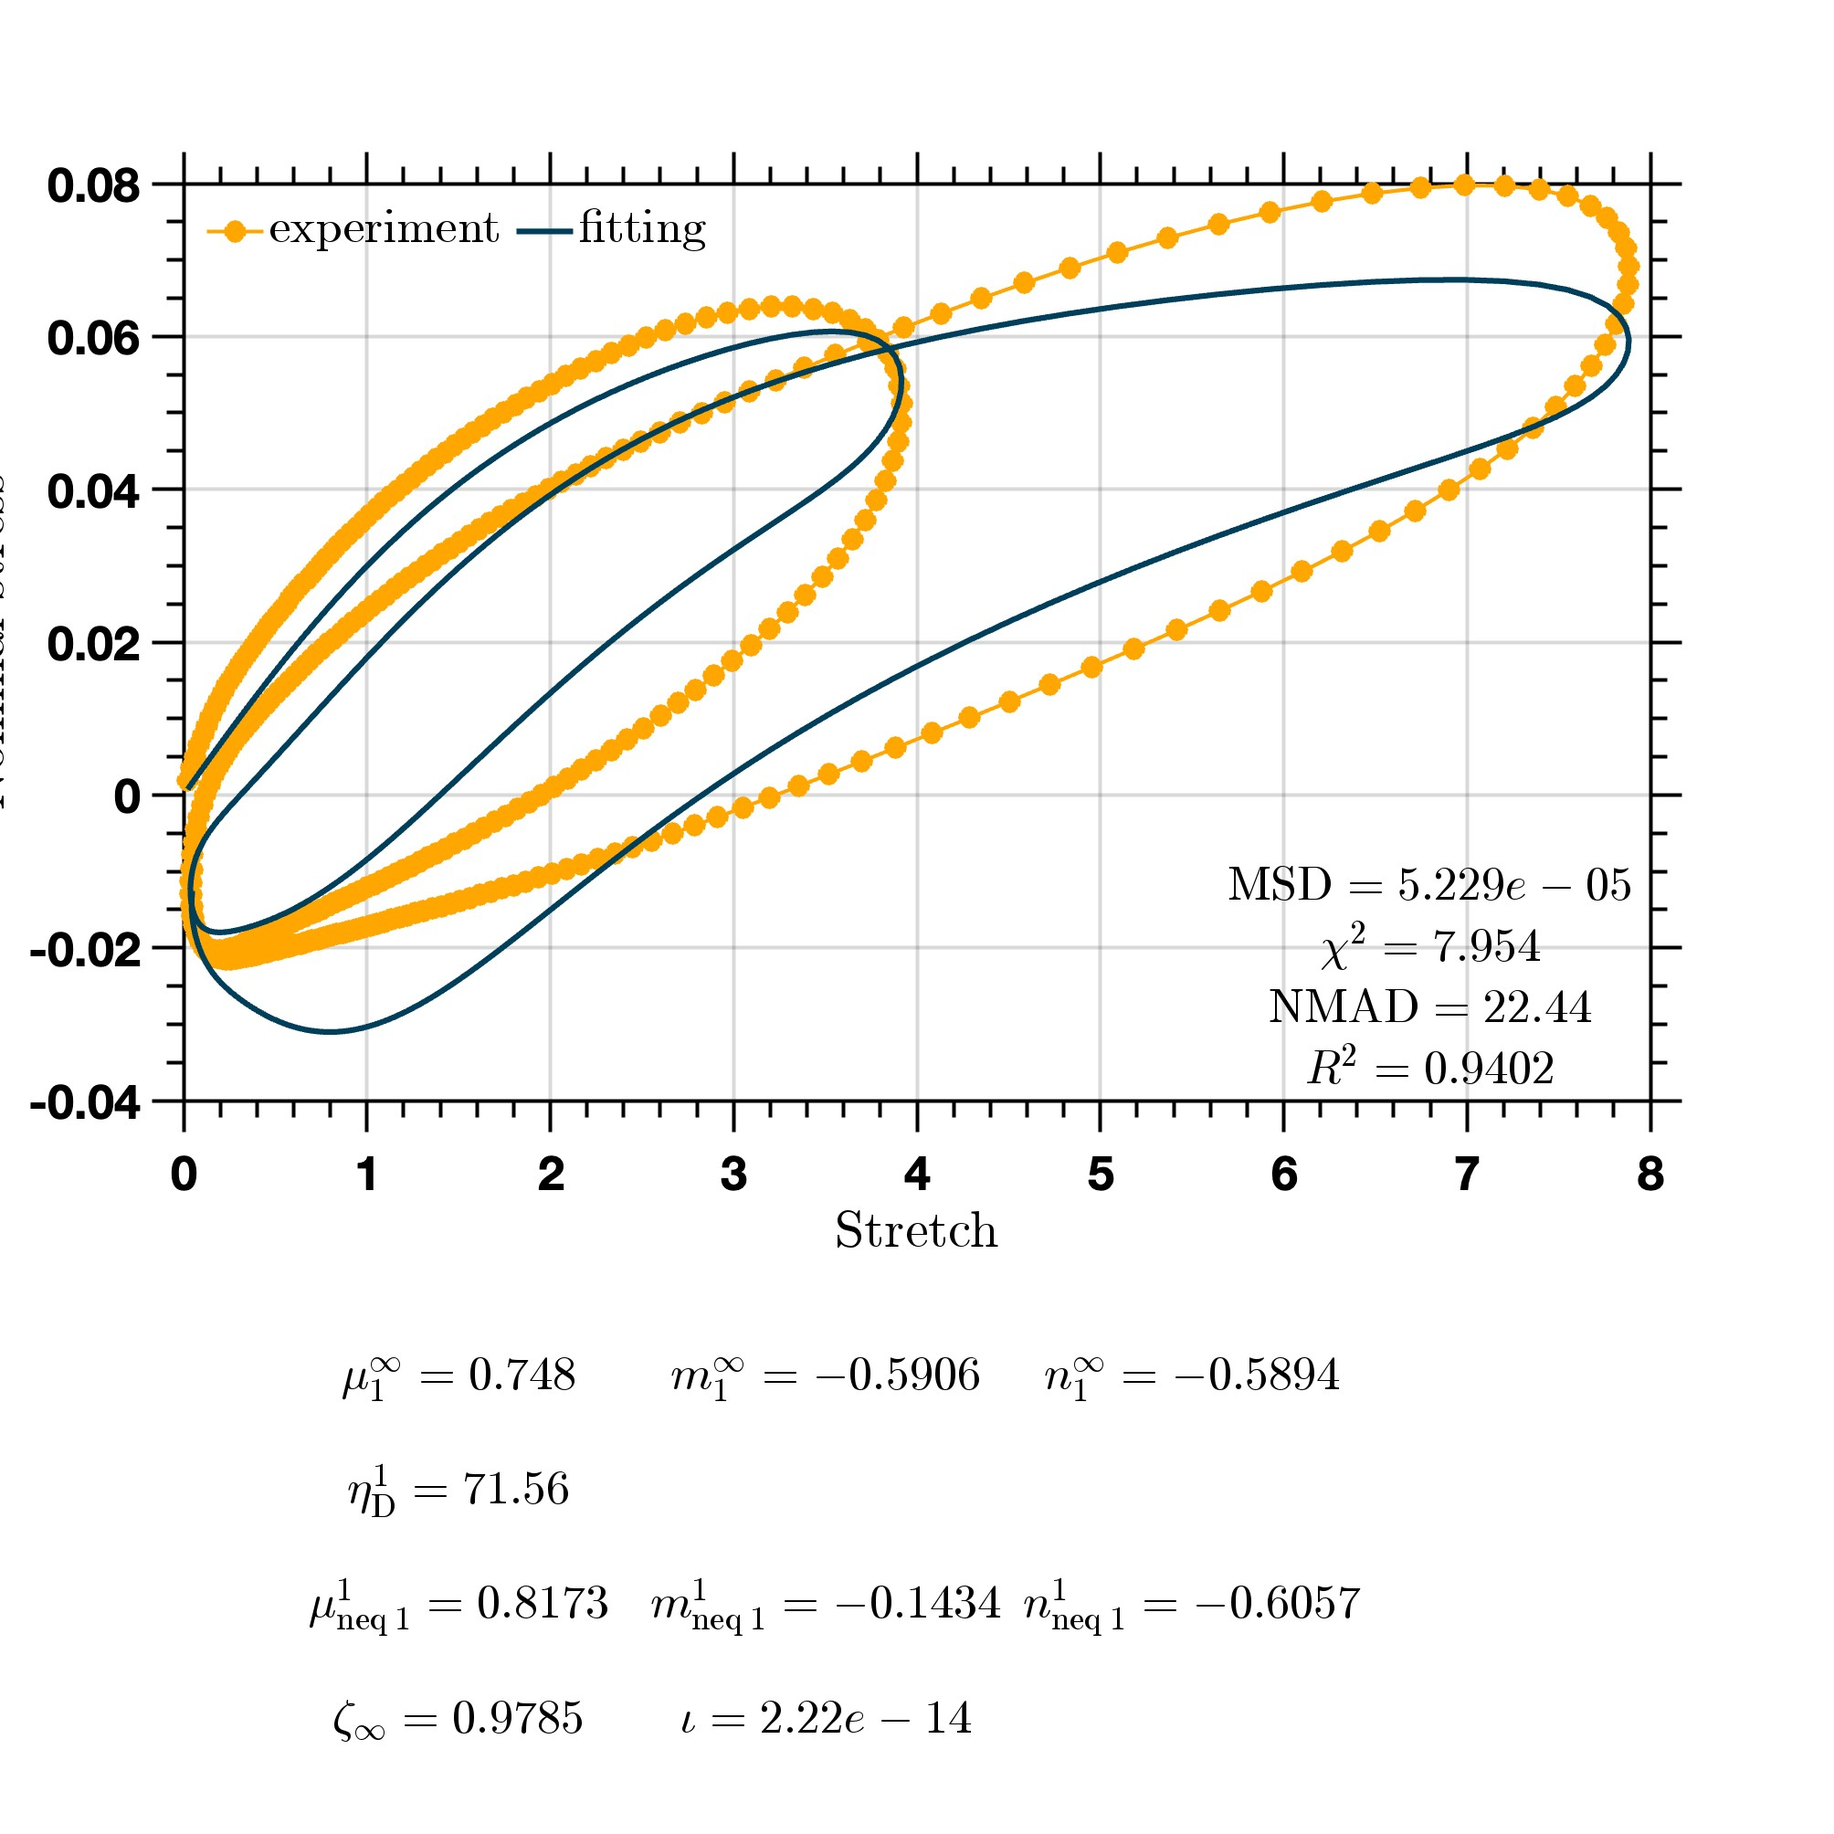
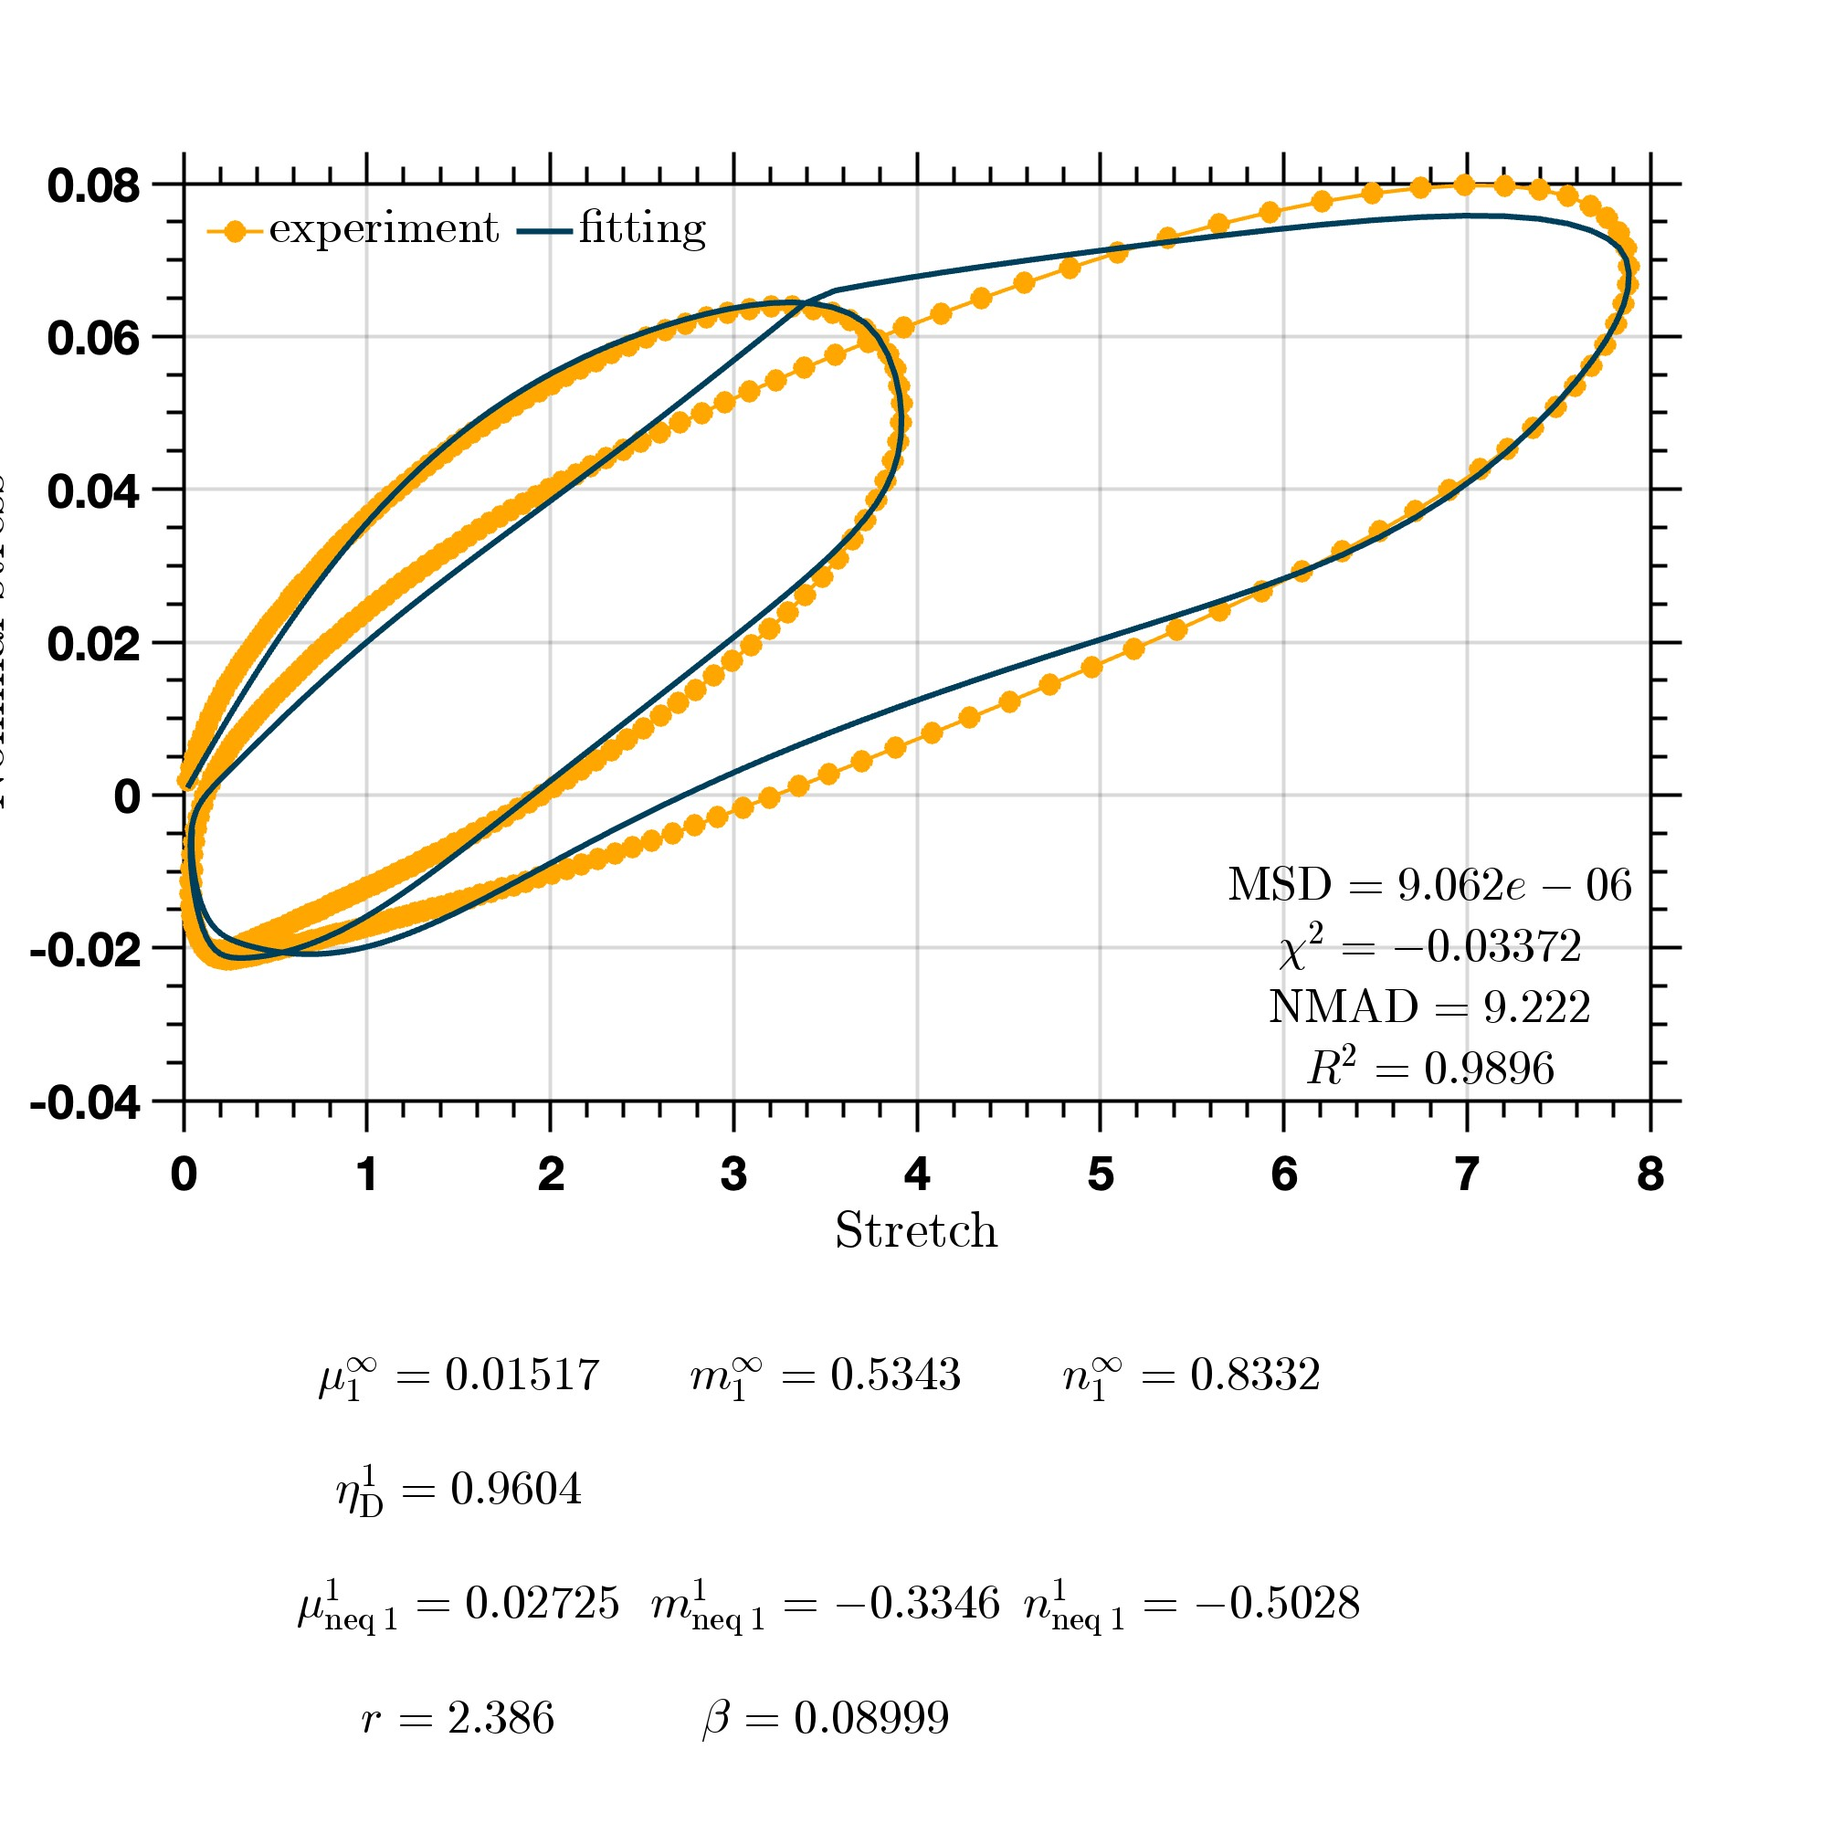
update

diff --git a/additive_CR_mullins_cyclic_shear/src/plot_result.m b/additive_CR_mullins_cyclic_shear/src/plot_result.m
@@ -1,10 +1,11 @@
-function plot_result(paras, num_eq, num_neq, Ft, time, P_exp)
+function plot_result(paras, num_eq, num_neq, Ft, time, P_exp, mode)
 close all;
-clf;
 gamma = zeros(length(time), 1);
 gamma(:) = Ft(1,2,:);
-[mu_eq, m_eq, n_eq, mu_neq, m_neq, n_neq, eta_d, zeta_infty, iota] = paras_to_array(paras, num_eq, num_neq, Ft, P_exp, time);
-P_pre = get_P_ij_list(1, 2, mu_eq, m_eq, n_eq, mu_neq, m_neq, n_neq, eta_d, zeta_infty, iota, Ft, time);
+% [mu_eq, m_eq, n_eq, mu_neq, m_neq, n_neq, eta_d, zeta_infty, iota] = paras_to_array(paras, num_eq, num_neq, Ft, P_exp, time);
+[mu_eq, m_eq, n_eq, mu_neq, m_neq, n_neq, eta_d, r, beta] = paras_to_array(paras, num_eq, num_neq);
+
+P_pre = get_P_ij_list(1, 2, mu_eq, m_eq, n_eq, mu_neq, m_neq, n_neq, eta_d, r, beta, Ft, time);
 figure;
 ax = axes('Position', [0.1 0.4 0.8 0.5], 'Box', 'on');
 plot(ax, gamma, P_exp, 'Color', '#ffa600', 'Marker', 'o', 'MarkerFaceColor', '#ffa600', 'MarkerSize', 10, 'LineStyle', '-', LineWidth=2.0);
@@ -118,12 +119,12 @@ switch mode
         text_mu_neq = cell(length(mu_neq), length(eta_d));
         text_m_neq = cell(length(m_neq), length(eta_d));
         text_n_neq = cell(length(n_neq), length(eta_d));
-        text_eta = cell(length(eta_d), 1);
+        text_eta_d = cell(length(eta_d), 1);
         x_location = 0.5;
         y_location = y_location + delta_y;
         for ii = 1:length(eta_d)
-            text_eta{ii} = sprintf('$\\eta_{\\mathrm{D}}^%d = %.4g$', ii, eta_d(ii));
-            text(x_location, y_location, text_eta(ii), ...
+            text_eta_d{ii} = sprintf('$\\eta_{\\mathrm{D}}^%d = %.4g$', ii, eta_d(ii));
+            text(x_location, y_location, text_eta_d(ii), ...
                 'HorizontalAlignment', 'center', ...
                 'VerticalAlignment', 'bottom', ...
                 'Interpreter', 'latex', ...
@@ -158,15 +159,15 @@ switch mode
         end
         x_location = 0.5;
         y_location = y_location + delta_y;
-        text_zeta_infty = sprintf('$\\zeta_{\\infty} = %.4g$', zeta_infty);
-        text(x_location, y_location, text_zeta_infty, ...
+        text_r = sprintf('$r = %.4g$', r);
+        text(x_location, y_location, text_r, ...
             'HorizontalAlignment', 'center', ...
             'VerticalAlignment', 'bottom', ...
             'Interpreter', 'latex', ...
             'FontSize', 25, 'FontWeight', 'bold', 'Color', 'k', 'FontName', 'Helvetica');
         x_location = x_location + delta_x;
-        text_lota = sprintf('$\\iota = %.4g$', iota);
-        text(x_location, y_location, text_lota, ...
+        text_beta = sprintf('$\\beta = %.4g$', beta);
+        text(x_location, y_location, text_beta, ...
             'HorizontalAlignment', 'center', ...
             'VerticalAlignment', 'bottom', ...
             'Interpreter', 'latex', ...
@@ -251,12 +252,12 @@ switch mode
         text_mu_neq = cell(length(mu_neq), length(eta_d));
         text_m_neq = cell(length(m_neq), length(eta_d));
         text_n_neq = cell(length(n_neq), length(eta_d));
-        text_eta = cell(length(eta_d), 1);
+        text_eta_d = cell(length(eta_d), 1);
         x_location = 1.5;
         y_location = y_location + delta_y;
         for ii = 1:length(eta_d)
-            text_eta{ii} = sprintf('$\\eta_{\\mathrm{D}}^%d = %.4g$', ii, eta_d(ii));
-            text(x_location, y_location, text_eta(ii), ...
+            text_eta_d{ii} = sprintf('$\\eta_{\\mathrm{D}}^%d = %.4g$', ii, eta_d(ii));
+            text(x_location, y_location, text_eta_d(ii), ...
                 'HorizontalAlignment', 'center', ...
                 'VerticalAlignment', 'bottom', ...
                 'Interpreter', 'latex', ...
@@ -291,15 +292,15 @@ switch mode
         end
         x_location = 1.5;
         y_location = y_location + delta_y;
-        text_zeta_infty = sprintf('$\\zeta_{\\infty} = %.4g$', zeta_infty);
-        text(x_location, y_location, text_zeta_infty, ...
+        text_r = sprintf('$r = %.4g$', r);
+        text(x_location, y_location, text_r, ...
             'HorizontalAlignment', 'center', ...
             'VerticalAlignment', 'bottom', ...
             'Interpreter', 'latex', ...
             'FontSize', 25, 'FontWeight', 'bold', 'Color', 'k', 'FontName', 'Helvetica');
         x_location = x_location + delta_x;
-        text_lota = sprintf('$\\iota = %.4g$', iota);
-        text(x_location, y_location, text_lota, ...
+        text_beta = sprintf('$\\beta = %.4g$', beta);
+        text(x_location, y_location, text_beta, ...
             'HorizontalAlignment', 'center', ...
             'VerticalAlignment', 'bottom', ...
             'Interpreter', 'latex', ...
@@ -384,12 +385,12 @@ switch mode
         text_mu_neq = cell(length(mu_neq), length(eta_d));
         text_m_neq = cell(length(m_neq), length(eta_d));
         text_n_neq = cell(length(n_neq), length(eta_d));
-        text_eta = cell(length(eta_d), 1);
+        text_eta_d = cell(length(eta_d), 1);
         x_location = 2.5;
         y_location = y_location + delta_y;
         for ii = 1:length(eta_d)
-            text_eta{ii} = sprintf('$\\eta_{\\mathrm{D}}^%d = %.4g$', ii, eta_d(ii));
-            text(x_location, y_location, text_eta(ii), ...
+            text_eta_d{ii} = sprintf('$\\eta_{\\mathrm{D}}^%d = %.4g$', ii, eta_d(ii));
+            text(x_location, y_location, text_eta_d(ii), ...
                 'HorizontalAlignment', 'center', ...
                 'VerticalAlignment', 'bottom', ...
                 'Interpreter', 'latex', ...
@@ -424,15 +425,15 @@ switch mode
         end
         x_location = 2.5;
         y_location = y_location + delta_y;
-        text_zeta_infty = sprintf('$\\zeta_{\\infty} = %.4g$', zeta_infty);
-        text(x_location, y_location, text_zeta_infty, ...
+        text_r = sprintf('$r = %.4g$', r);
+        text(x_location, y_location, text_r, ...
             'HorizontalAlignment', 'center', ...
             'VerticalAlignment', 'bottom', ...
             'Interpreter', 'latex', ...
             'FontSize', 25, 'FontWeight', 'bold', 'Color', 'k', 'FontName', 'Helvetica');
         x_location = x_location + delta_x;
-        text_lota = sprintf('$\\iota = %.4g$', iota);
-        text(x_location, y_location, text_lota, ...
+        text_beta = sprintf('$\\beta = %.4g$', beta);
+        text(x_location, y_location, text_beta, ...
             'HorizontalAlignment', 'center', ...
             'VerticalAlignment', 'bottom', ...
             'Interpreter', 'latex', ...

diff --git a/additive_CR_mullins_cyclic_shear/test.m b/additive_CR_mullins_cyclic_shear/test.m
@@ -1,9 +1,9 @@
 clc; clear; close all
 
 addpath("src");
-data = readmatrix('../smoothed_cyclic_shear_2.xlsx');
+data = readmatrix('../smoothed_cyclic_shear_3.xlsx');
 time = data(:,1);
-P_exp = 1000.0 .* data(:,3);
+P_exp = data(:,3);
 gamma = data(:,4);
 
 % Uniaxial tension experimental case
@@ -23,15 +23,16 @@ m_neq = [1.0];
 n_neq = [1.0];
 eta_d = [100.0];
 
-zeta_infty = [0.01];
-iota = [1.0];
-[paras0, num_eq, num_neq, lb, ub] = array_to_paras(mu_eq, m_eq, n_eq, mu_neq, m_neq, n_neq, eta_d, zeta_infty, iota);
+r = [2.0];
+beta = [20.0];
+[paras0, num_eq, num_neq, lb, ub] = array_to_paras(mu_eq, m_eq, n_eq, mu_neq, m_neq, n_neq, eta_d, r, beta);
 
 objectiveFunction = @(paras) objective(paras, Ft, P_exp, time, num_eq, num_neq);
 options = optimoptions('lsqnonlin', ...
-    'Algorithm', 'interior-point', ...
+    'Algorithm', 'trust-region-reflective', ...
     'MaxIterations', 100, ...
-    'Display', 'iter-detailed');
+    'Display', 'iter-detailed', ...
+    'PlotFcn', 'optimplotfval');
 [paras, resnorm] = lsqnonlin( objectiveFunction, paras0, lb, ub, options);
-plot_result(paras, num_eq, num_neq, Ft, time, P_exp, 2);
-print(gcf, '-djpeg', 'fig_cyclic_shear_2.jpg');
+plot_result(paras, num_eq, num_neq, Ft, time, P_exp, 3);
+print(gcf, '-djpeg', 'fig_cyclic_shear_3.jpg');

diff --git a/additive_CR_mullins_cyclic_shear/src/get_P_ij_list.m b/additive_CR_mullins_cyclic_shear/src/get_P_ij_list.m
@@ -1,9 +1,8 @@
-function out = get_P_ij_list(ii, jj, mu_eq, m_eq, n_eq, mu_neq, m_neq, n_neq, eta_d, zeta_infty, iota, Ft, time)
+function out = get_P_ij_list(ii, jj, mu_eq, m_eq, n_eq, mu_neq, m_neq, n_neq, eta_d, r, beta, Ft, time)
 out = zeros(length(time), 1);
 P_pre = get_P_list(mu_eq, m_eq, n_eq, mu_neq, m_neq, n_neq, eta_d, Ft, time);
-alpha_t = get_alpha_t(mu_eq, m_eq, n_eq, mu_neq, m_neq, n_neq, eta_d, Ft, time);
-zeta_t = get_zeta_t(zeta_infty, iota, alpha_t);
+eta_t = get_eta_t(mu_eq, m_eq, n_eq, mu_neq, m_neq, n_neq, eta_d, Ft, time, r, beta);
 for kk = 1:length(time)
-out(kk) = (1.0 - zeta_t(kk)) * P_pre(ii,jj,kk);
+out(kk) = eta_t(kk) * P_pre(ii,jj,kk);
 end
 end

diff --git a/additive_CR_mullins_cyclic_shear/src/array_to_paras.m b/additive_CR_mullins_cyclic_shear/src/array_to_paras.m
@@ -1,4 +1,4 @@
-function [paras, num_eq, num_neq, lb, ub] = array_to_paras(mu_eq, m_eq, n_eq, mu_neq, m_neq, n_neq, eta_d, zeta_infty, iota)
+function [paras, num_eq, num_neq, lb, ub] = array_to_paras(mu_eq, m_eq, n_eq, mu_neq, m_neq, n_neq, eta_d, r, beta)
 if length(mu_eq) == length(m_eq) && length(m_eq) == length(n_eq)
     num_eq = length(mu_eq);
 else
@@ -25,7 +25,7 @@ for ii = 1:num_neq
     lb = [lb, 0, -10, -10, 0.0];
     ub = [ub, Inf, 10, 10, Inf];
 end
-paras = [paras, zeta_infty, iota];
-lb = [lb, 0.0, 0.0];
-ub = [ub, 1.0, Inf];
+paras = [paras, r, beta];
+lb = [lb, 1.0, 0.0];
+ub = [ub, Inf, Inf];
 end

diff --git a/additive_CR_mullins_cyclic_shear/src/get_P_list.m b/additive_CR_mullins_cyclic_shear/src/get_P_list.m
@@ -1,10 +1,10 @@
-function out = get_P_list(mu_eq, m_eq, n_eq, mu_neq, m_neq, n_neq, eta, Ft, time)
+function out = get_P_list(mu_eq, m_eq, n_eq, mu_neq, m_neq, n_neq, eta_d, Ft, time)
 out = zeros(size(Ft));
 for ii = 1:length(mu_eq)
     out = out + get_P_iso_eq_list(mu_eq(ii), m_eq(ii), n_eq(ii), Ft);
 end
-for ii = 1:length(eta)
-    out = out + get_P_iso_neq_list(mu_neq(ii), m_neq(ii), n_neq(ii), eta(ii), Ft, time);
+for ii = 1:length(eta_d)
+    out = out + get_P_iso_neq_list(mu_neq, m_neq, n_neq, eta_d, Ft, time);
 end
 % determine the pressure through incompressbility constrain
 for ii = 1:length(time)

diff --git a/additive_CR_mullins_cyclic_shear/src/objective.m b/additive_CR_mullins_cyclic_shear/src/objective.m
@@ -1,6 +1,6 @@
 function out = objective(paras, Ft, P_exp, time, num_eq, num_neq)
-[mu_eq, m_eq, n_eq, mu_neq, m_neq, n_neq, eta, zeta_infty, iota] = paras_to_array(paras, num_eq, num_neq, Ft, P_exp, time);
-P_pre = get_P_ij_list(1, 2, mu_eq, m_eq, n_eq, mu_neq, m_neq, n_neq, eta, zeta_infty, iota, Ft, time);
+[mu_eq, m_eq, n_eq, mu_neq, m_neq, n_neq, eta_d, r, beta] = paras_to_array(paras, num_eq, num_neq);
+P_pre = get_P_ij_list(1, 2, mu_eq, m_eq, n_eq, mu_neq, m_neq, n_neq, eta_d, r, beta, Ft, time);
 out = [];
 for ii = 1:length(P_pre)
     out = [out, P_exp(ii) - P_pre(ii)];

diff --git a/additive_CR_mullins_cyclic_shear/src/get_eta_t.m b/additive_CR_mullins_cyclic_shear/src/get_eta_t.m
@@ -1,4 +1,4 @@
-function out = get_alpha_t(mu_eq, m_eq, n_eq, mu_neq, m_neq, n_neq, eta_d, Ft, time)
+function out = get_eta_t(mu_eq, m_eq, n_eq, mu_neq, m_neq, n_neq, eta_d, Ft, time, r, beta)
 out = zeros(length(time), 1);
 Psi = zeros(length(time), 1);
 max_value = 0.0;
@@ -14,9 +14,7 @@ for ii = 1:length(time)
     end
     if Psi(ii) >= max_value
         max_value = Psi(ii);
-        out(ii) = max_value;
-    else
-        out(ii) = max_value;
     end
+    out(ii) = 1 - erf( (max_value - Psi(ii)) / beta ) / r;
 end
 end

diff --git a/additive_CR_mullins_cyclic_shear/src/paras_to_array.m b/additive_CR_mullins_cyclic_shear/src/paras_to_array.m
@@ -1,4 +1,4 @@
-function [mu_eq, m_eq, n_eq, mu_neq, m_neq, n_neq, eta_d, zeta_infty, iota] = paras_to_array(paras, num_eq, num_neq, Ft, P_exp, time)
+function [mu_eq, m_eq, n_eq, mu_neq, m_neq, n_neq, eta_d, r, beta] = paras_to_array(paras, num_eq, num_neq)
 mu_eq = [];
 m_eq  = [];
 n_eq = [];
@@ -19,6 +19,6 @@ for ii = 1:num_neq
     n_neq = [n_neq, paras(3*num_eq+4*(ii-1)+3)];
     eta_d = [eta_d, paras(3*num_eq+4*(ii-1)+4)];
 end
-zeta_infty = paras(end-1);
-iota = paras(end);
+r = paras(end-1);
+beta = paras(end);
 end

diff --git a/additive_CR_mullins_cyclic_shear/src/get_CR_energy_eq.m b/additive_CR_mullins_cyclic_shear/src/get_CR_energy_eq.m
@@ -2,6 +2,9 @@ function out = get_CR_energy_eq(mu_eq, m_eq, n_eq, C)
 out = 0.0;
 for ii = 1:length(mu_eq)
 E = get_CR_strain(m_eq(ii), n_eq(ii), C);
-out = out + mu_eq(ii) * contract(E, E);
+out = out + mu_eq(ii)...
+    * ( E(1,1)*E(1,1) + E(1,2)*E(1,2) + E(1,3)*E(1,3)...
+      + E(2,1)*E(2,1) + E(2,2)*E(2,2) + E(2,3)*E(2,3)...
+      + E(3,1)*E(3,1) + E(3,2)*E(3,2) + E(3,3)*E(3,3));
 end
 end

diff --git a/additive_CR_shear/simultaneous_monotonic_shear_driver.m b/additive_CR_shear/simultaneous_monotonic_shear_driver.m
@@ -58,7 +58,8 @@ options = optimoptions('lsqnonlin', ...
     'MaxIterations', 3000, ...
     'TolFun', 1e-10, ...
     'TolX', 1e-10, ...
-    'Display', 'iter-detailed');
+    'Display', 'iter-detailed', ...
+    'PlotFcn', 'optimplotfval');
 
 [paras, resnorm] = lsqnonlin( objectiveFunction, paras0, lb, ub, options);
 plot_results(paras, num_eq, num_neq, Ft_1, time_1, P_exp_1,...

diff --git a/additive_CR_mullins_cyclic_shear/src/get_CR_energy_neq.m b/additive_CR_mullins_cyclic_shear/src/get_CR_energy_neq.m
@@ -1,4 +1,8 @@
 function out = get_CR_energy_neq(mu_neq, m_neq, n_neq, C, Ev)
 E = get_CR_strain(m_neq, n_neq, C);
-out = mu_neq * contract(E-Ev, E-Ev);
+Ee = E - Ev;
+out = mu_neq...
+    * ( Ee(1,1)*Ee(1,1) + Ee(1,2)*Ee(1,2) + Ee(1,3)*Ee(1,3)...
+      + Ee(2,1)*Ee(2,1) + Ee(2,2)*Ee(2,2) + Ee(2,3)*Ee(2,3)...
+      + Ee(3,1)*Ee(3,1) + Ee(3,2)*Ee(3,2) + Ee(3,3)*Ee(3,3));
 end

diff --git a/additive_CR_mullins_cyclic_shear/src/get_zeta_t.m b/additive_CR_mullins_cyclic_shear/src/get_zeta_t.m
@@ -1,6 +1,6 @@
 function out = get_zeta_t(zeta_infty, iota, alpha_t)
 out = zeros(length(alpha_t), 1);
 for ii = 1:length(out)
-    out(ii) = zeta_infty * (1 - exp(-alpha_t(ii)/iota));
+    out(ii) = zeta_infty * (1.0 - exp(-alpha_t(ii)/iota));
 end
 end
